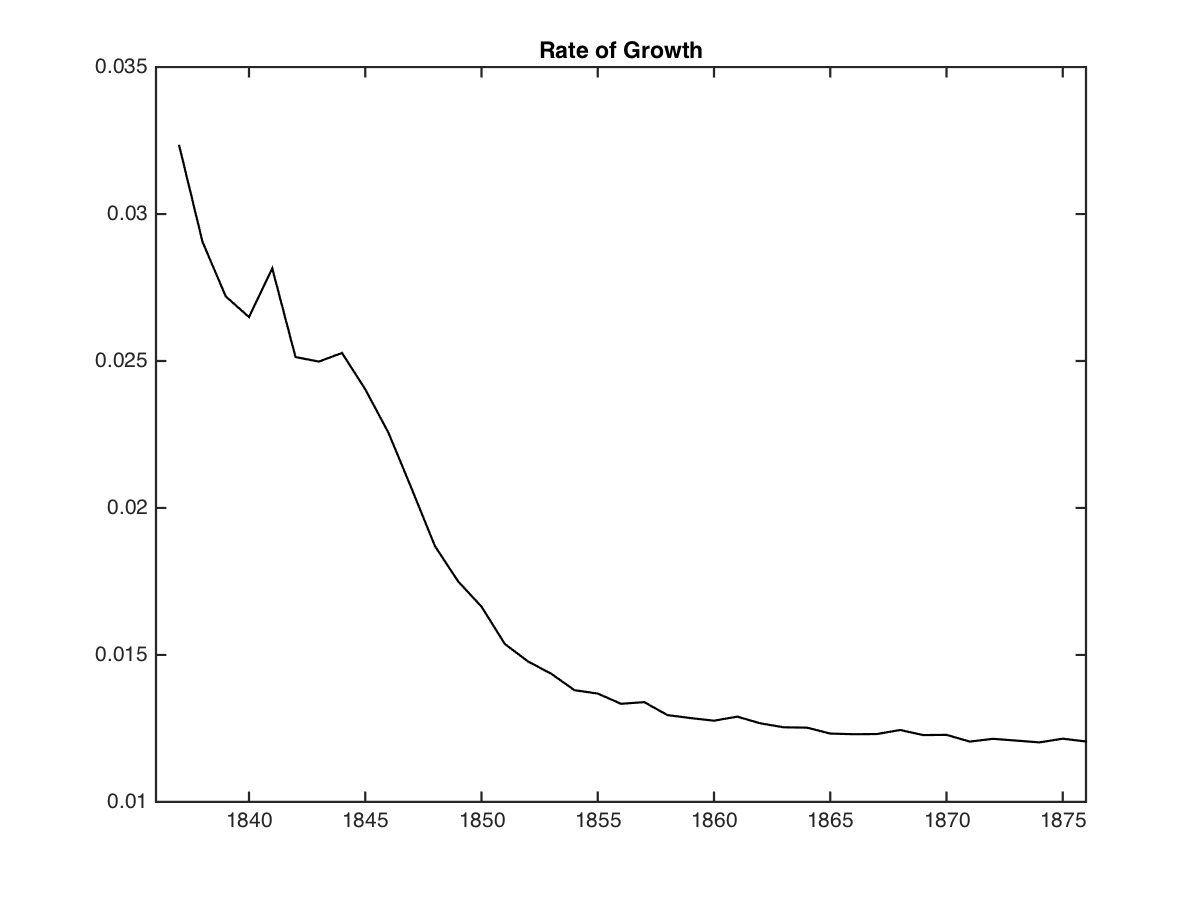
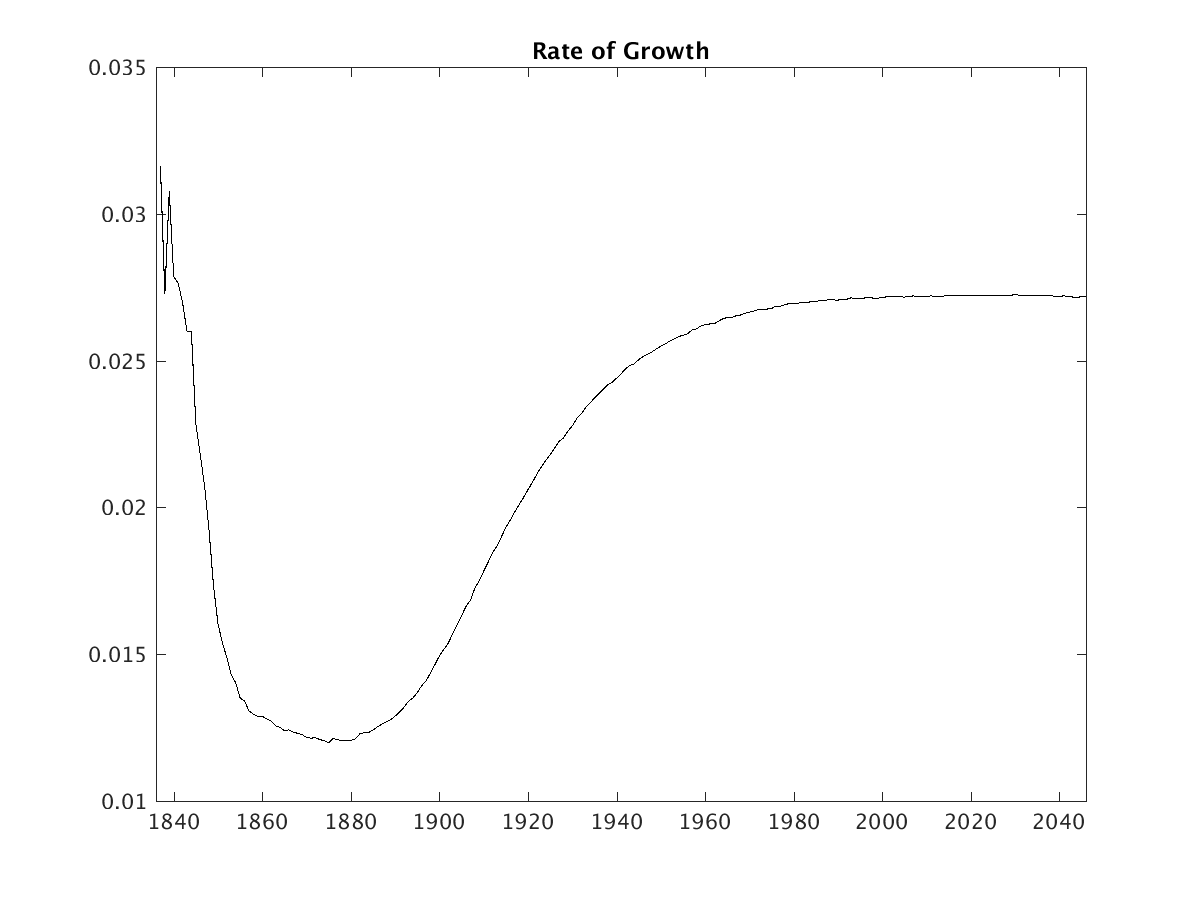
figures

diff --git a/simulations/consolidated/run_simulation_backup.m b/simulations/consolidated/run_simulation_backup.m
@@ -4,8 +4,7 @@ clc
 
 %cd('/Users/alexandresollaci/Documents/UChicago/RA/Combinatorial growth/combinatorial_growth/simulations/consolidated/')
 
-%delete(gcp)
-%parpool(2)
+rng(10)
 
 %% Parameters
 
@@ -32,7 +31,7 @@ params = v2struct(etaH, etaM, etaL, tau, phi, lambda, kappa, xi, zeta, gamma, ep
 beg_inv = exp(6);       % number of inventors, chosen to match initial number of patents
 beg_year = 1836;        % beginning year
 Tbase = 180;            % number of periods to run baseline simulation
-Tsubs = 30;             % number of periods to run subsidy simulation
+Tsubs = 20;             % number of periods to run subsidy simulation
 Tmax = Tbase + Tsubs;
 
 %% RUN THE MODEL
@@ -73,36 +72,34 @@ policy_cost = zeros(Tmax, num_simul);
 nrofpatents = zeros(Tmax, num_simul);
 welfare = zeros(2, num_simul);
 
-subsidy_vals = [.01 .03 .05 .1];
+subsidy_vals = [.05 .1 .15 .2];
 subsidy = [subsidy_vals' zeros(length(subsidy_vals),1); ...
             zeros(length(subsidy_vals),1) subsidy_vals']; % subsidy for [new tech, new comb]
 
-patmat_subs = zeros(Tmax+1, 4, length(subsidy), num_simul);
-growth_subs = zeros(Tmax, length(subsidy), num_simul);
-consumption_subs = zeros(Tmax, length(subsidy), num_simul);
-GDP_subs = zeros(Tmax, length(subsidy), num_simul);
-firm_cost_subs = zeros(Tmax, length(subsidy), num_simul);
-inventor_cost_subs = zeros(Tmax, length(subsidy), num_simul);
-policy_cost_subs = zeros(Tmax, length(subsidy), num_simul);
-nrofpatents_subs = zeros(Tmax, length(subsidy), num_simul);
-welfare_subs = zeros(2, length(subsidy), num_simul);
+patmat_subs = zeros(Tmax+1, 4, num_simul, length(subsidy));
+growth_subs = zeros(Tmax, num_simul, length(subsidy));
+consumption_subs = zeros(Tmax, num_simul, length(subsidy));
+GDP_subs = zeros(Tmax, num_simul, length(subsidy));
+firm_cost_subs = zeros(Tmax, num_simul, length(subsidy));
+inventor_cost_subs = zeros(Tmax, num_simul, length(subsidy));
+policy_cost_subs = zeros(Tmax, num_simul, length(subsidy));
+nrofpatents_subs = zeros(Tmax, num_simul, length(subsidy));
+welfare_subs = zeros(2, num_simul, length(subsidy));
 
-pat0 = repmat([beg_year, 1, 0, 0], 1, 1, length(subsidy));
-
-parfor s = 1:num_simul
+for s = 1:num_simul
     seed1 = 1000*rand;
     model_plain = simulate_model(params, Tbase, beg_year, beg_inv, Mmat0, patmat0, state0, quality0, [0 0], seed1);
 
-    % generate variables that will be input into second half of simulations (with subsidy)
     Mmat = model_plain.Mmat;
     state = model_plain.state;
     quality = model_plain.quality;
     nrofinv = model_plain.nrofinv;
+
     seed2 = 1000*rand;
     
     model_subs_0 = simulate_model(params, Tsubs, beg_year+Tbase, nrofinv, Mmat, patmat1, state, quality, [0 0], seed2);
 
-    % store result of simulation without subsidy
+    % In period 0, all ideas are new.
     patmat(:,:,s) = [[beg_year, 1, 0, 0]; model_plain.patmat; model_subs_0.patmat];
     nrofpatents(:,s) = [model_plain.nrofpatents; model_subs_0.nrofpatents];
     consumption(:,s) = [model_plain.consumption; model_subs_0.consumption];
@@ -113,45 +110,22 @@ parfor s = 1:num_simul
     growth(:,s) = [model_plain.growth; model_subs_0.growth];
     welfare(:,s) = [model_plain.welfare; model_subs_0.welfare];
 
-    % Initialize variables for inner loop (parfor)
-    patmat_temp = zeros(Tsubs, 4, length(subsidy));
-    nrofpatents_temp = zeros(Tsubs, length(subsidy));
-    consumption_temp = zeros(Tsubs, length(subsidy));
-    GDP_temp = zeros(Tsubs, length(subsidy));
-    firm_cost_temp = zeros(Tsubs, length(subsidy));
-    inventor_cost_temp = zeros(Tsubs, length(subsidy));
-    policy_cost_temp = zeros(Tsubs, length(subsidy));
-    growth_temp = zeros(Tsubs, length(subsidy));
-    welfare_temp = zeros(1, length(subsidy));
-
     for v = 1:length(subsidy)
 
         model_subs_1 = simulate_model(params, Tsubs, beg_year+Tbase, nrofinv, Mmat, patmat1, state, quality, subsidy(v,:), seed2);
 
-        % store values in temporary variables so that parfor does generate a classification error
-        patmat_temp(:,:,v) = model_subs_1.patmat;
-        nrofpatents_temp(:,v) = model_subs_1.nrofpatents;
-        consumption_temp(:,v) = model_subs_1.consumption;
-        GDP_temp(:,v) = model_subs_1.GDP;
-        firm_cost_temp(:,v) = model_subs_1.firm_cost;
-        inventor_cost_temp(:,v) = model_subs_1.inventor_cost;
-        policy_cost_temp(:,v) = model_subs_1.policy_cost;
-        growth_temp(:,v) = model_subs_1.growth;
-        welfare_temp(v) = model_subs_1.welfare;
+        patmat_subs(:,:,s,v) = [[beg_year, 1, 0, 0]; model_plain.patmat; model_subs_1.patmat];
+        nrofpatents_subs(:,s,v) = [model_plain.nrofpatents; model_subs_1.nrofpatents];
+        consumption_subs(:,s,v) = [model_plain.consumption; model_subs_1.consumption];
+        GDP_subs(:,s,v) = [model_plain.GDP; model_subs_1.GDP];
+        firm_cost_subs(:,s,v) = [model_plain.firm_cost; model_subs_1.firm_cost];
+        inventor_cost_subs(:,s,v) = [model_plain.inventor_cost; model_subs_1.inventor_cost];
+        policy_cost_subs(:,s,v) = [model_plain.policy_cost; model_subs_1.policy_cost];
+        growth_subs(:,s,v) = [model_plain.growth; model_subs_1.growth];
+        welfare_subs(:,s,v) = [model_plain.welfare; model_subs_1.welfare];
 
     end
-
-    % store values of the model with subsidy
-    patmat_subs(:,:,:,s) = [pat0; repmat(model_plain.patmat,1,1,length(subsidy)); patmat_temp];
-    nrofpatents_subs(:,:,s) = [repmat(model_plain.nrofpatents,1,length(subsidy)); nrofpatents_temp];
-    consumption_subs(:,:,s) = [repmat(model_plain.consumption,1,length(subsidy)); consumption_temp];
-    GDP_subs(:,:,s) = [repmat(model_plain.GDP,1,length(subsidy)); GDP_temp];
-    firm_cost_subs(:,:,s) = [repmat(model_plain.firm_cost,1,length(subsidy)); firm_cost_temp];
-    inventor_cost_subs(:,:,s) = [repmat(model_plain.inventor_cost,1,length(subsidy)); inventor_cost_temp];
-    policy_cost_subs(:,:,s) = [repmat(model_plain.policy_cost,1,length(subsidy)); policy_cost_temp];
-    growth_subs(:,:,s) = [repmat(model_plain.growth,1,length(subsidy)); growth_temp];
-    welfare_subs(:,:,s) = [repmat(model_plain.welfare,1,length(subsidy)); welfare_temp];
-
+    
     display(['SIMULATION NUMBER ' num2str(s)])
 end
 
@@ -165,15 +139,15 @@ policy_cost = mean(policy_cost,2);
 growth = mean(growth,2);
 welfare = mean(welfare,2);
 
-patent_shares_subs = mean(patmat_subs,4);
-nrofpatents_subs = mean(nrofpatents_subs,3);
-GDP_subs = mean(GDP_subs,3);
-firm_cost_subs = mean(firm_cost_subs,3);
-consumption_subs = mean(consumption_subs,3);
-inventor_cost_subs = mean(inventor_cost_subs,3);
-policy_cost_subs = mean(policy_cost_subs,3);
-growth_subs = mean(growth_subs,3);
-welfare_subs = mean(welfare_subs,3);
+patent_shares_subs = mean(patmat_subs,3);
+nrofpatents_subs = mean(nrofpatents_subs,2);
+GDP_subs = mean(GDP_subs,2);
+firm_cost_subs = mean(firm_cost_subs,2);
+consumption_subs = mean(consumption_subs,2);
+inventor_cost_subs = mean(inventor_cost_subs,2);
+policy_cost_subs = mean(policy_cost_subs,2);
+growth_subs = mean(growth_subs,2);
+welfare_subs = mean(welfare_subs,2);
 
 %% PLOTS
 
@@ -216,11 +190,13 @@ saveas(gcf, 'figures/patents.png')
 
 % Welfare gains with subsidy
 
-welfareNT = welfare_subs(:,1:length(subsidy_vals));
-welfareNC = welfare_subs(:,length(subsidy_vals)+1:2*length(subsidy_vals));
+welfareNT = squeeze(welfare_subs(:,:,1:length(subsidy_vals)));
+welfareNC = squeeze(welfare_subs(:,:,length(subsidy_vals)+1:2*length(subsidy_vals)));
+%welfareBOTH = squeeze(welfare_subs(:,:,2*length(subsidy_vals)+1:end));
 
 Delta_welfareNT = (welfareNT - repmat(welfare,1,length(subsidy_vals)))./repmat(welfare,1,length(subsidy_vals));
 Delta_welfareNC = (welfareNC - repmat(welfare,1,length(subsidy_vals)))./repmat(welfare,1,length(subsidy_vals));
+%Delta_welfareBOTH = (welfareBOTH - repmat(welfare,1,length(subsidy_vals)))./repmat(welfare,1,length(subsidy_vals));
 
 figure(5)
 plot([0,subsidy_vals], [0,Delta_welfareNT(2,:)], '-k', [0,subsidy_vals], [0,Delta_welfareNC(2,:)], '--k')

diff --git a/simulations/consolidated/run_simulation.m b/simulations/consolidated/run_simulation.m
@@ -2,7 +2,7 @@ clear
 close all
 clc
 
-cd('/Users/alexandresollaci/Documents/UChicago/RA/Combinatorial growth/combinatorial_growth/simulations/consolidated/')
+%cd('/Users/alexandresollaci/Documents/UChicago/RA/Combinatorial growth/combinatorial_growth/simulations/consolidated/')
 
 %delete(gcp)
 %parpool(2)
@@ -31,8 +31,8 @@ params = v2struct(etaH, etaM, etaL, tau, phi, lambda, kappa, xi, zeta, gamma, ep
 
 beg_inv = exp(6);       % number of inventors, chosen to match initial number of patents
 beg_year = 1836;        % beginning year
-Tbase = 20;            % number of periods to run baseline simulation
-Tsubs = 20;             % number of periods to run subsidy simulation
+Tbase = 180;            % number of periods to run baseline simulation
+Tsubs = 30;             % number of periods to run subsidy simulation
 Tmax = Tbase + Tsubs;
 
 %% RUN THE MODEL
@@ -62,7 +62,7 @@ quality0 = ones(nroffirms,1);
 
 % Simulate Model
 
-num_simul = 10;         % number of times model is simulated
+num_simul = 20;         % number of times model is simulated
 patmat = zeros(Tmax+1, 4, num_simul);
 growth = zeros(Tmax, num_simul);
 consumption = zeros(Tmax, num_simul);
@@ -73,7 +73,7 @@ policy_cost = zeros(Tmax, num_simul);
 nrofpatents = zeros(Tmax, num_simul);
 welfare = zeros(2, num_simul);
 
-subsidy_vals = [.01 .03 .05 .1];
+subsidy_vals = [.02 .05 .1 .2 .3];
 subsidy = [subsidy_vals' zeros(length(subsidy_vals),1); ...
             zeros(length(subsidy_vals),1) subsidy_vals']; % subsidy for [new tech, new comb]
 
@@ -89,7 +89,7 @@ welfare_subs = zeros(2, length(subsidy), num_simul);
 
 pat0 = repmat([beg_year, 1, 0, 0], 1, 1, length(subsidy));
 
-for s = 1:num_simul
+parfor s = 1:num_simul
     seed1 = 1000*rand;
     model_plain = simulate_model(params, Tbase, beg_year, beg_inv, Mmat0, patmat0, state0, quality0, [0 0], seed1);
 
@@ -124,7 +124,7 @@ for s = 1:num_simul
     growth_temp = zeros(Tsubs, length(subsidy));
     welfare_temp = zeros(1, length(subsidy));
 
-    parfor v = 1:length(subsidy)
+    for v = 1:length(subsidy)
 
         model_subs_1 = simulate_model(params, Tsubs, beg_year+Tbase, nrofinv, Mmat, patmat1, state, quality, subsidy(v,:), seed2);
 
